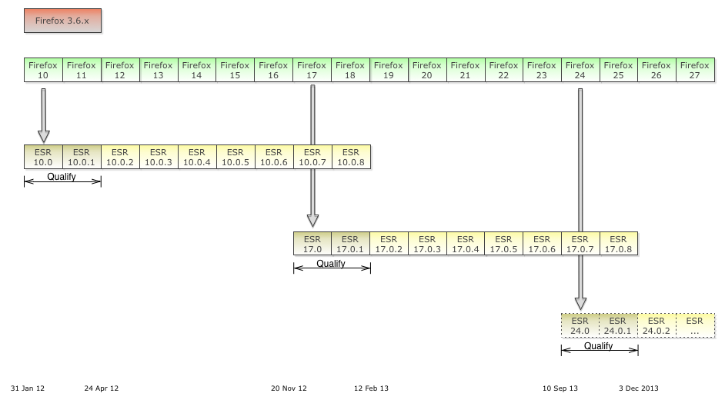
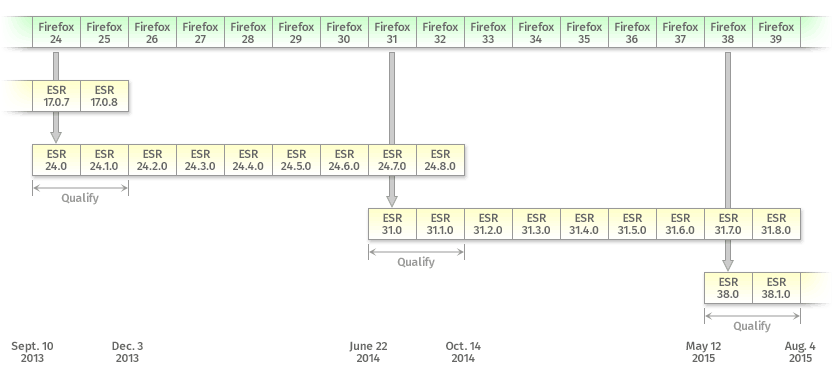
Fix Bug 988729 - Update the ESR release overview image

diff --git a/bedrock/firefox/templates/firefox/organizations/faq.html b/bedrock/firefox/templates/firefox/organizations/faq.html
@@ -55,7 +55,7 @@
 {% endtrans %}
 </p>
 
-<p><img src="{{ media('/img/firefox/organizations/release-overview.png') }}" alt="{{ _('Firefox ESR Release Overview') }}" id="release-overview" /></p>
+<p><a href="{{ media('/img/firefox/organizations/release-overview.png?fx24') }}"><img src="{{ media('/img/firefox/organizations/release-overview.png?fx24') }}" alt="{{ _('Firefox ESR Release Overview') }}" id="release-overview" /></a></p>
 
 <p>
 {% trans %}

diff --git a/media/css/firefox/organizations.less b/media/css/firefox/organizations.less
@@ -18,3 +18,9 @@
     }
      
 }
+
+@media only screen and (min-width: @breakDesktop) {
+    img#release-overview {
+        max-width: none;
+    }
+}
